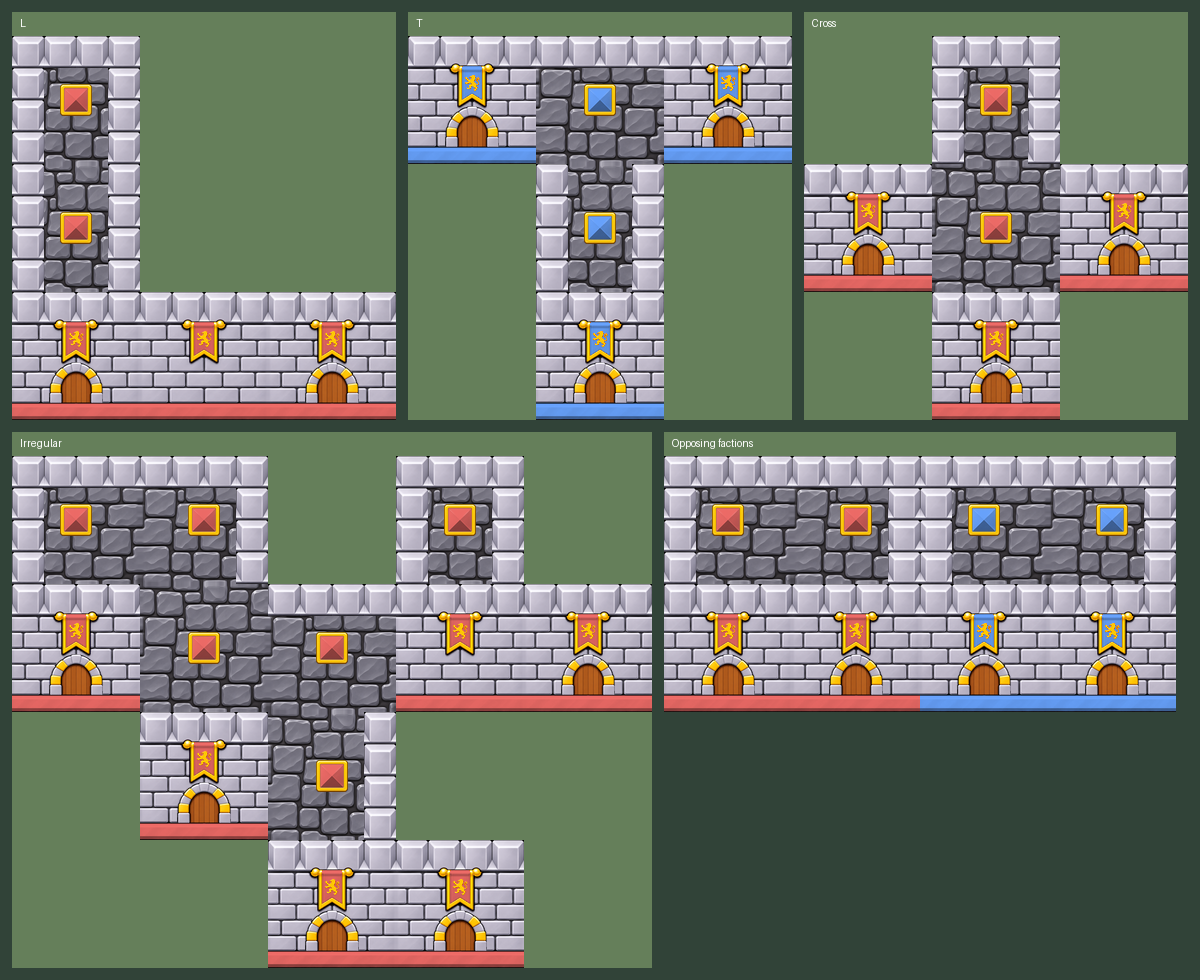
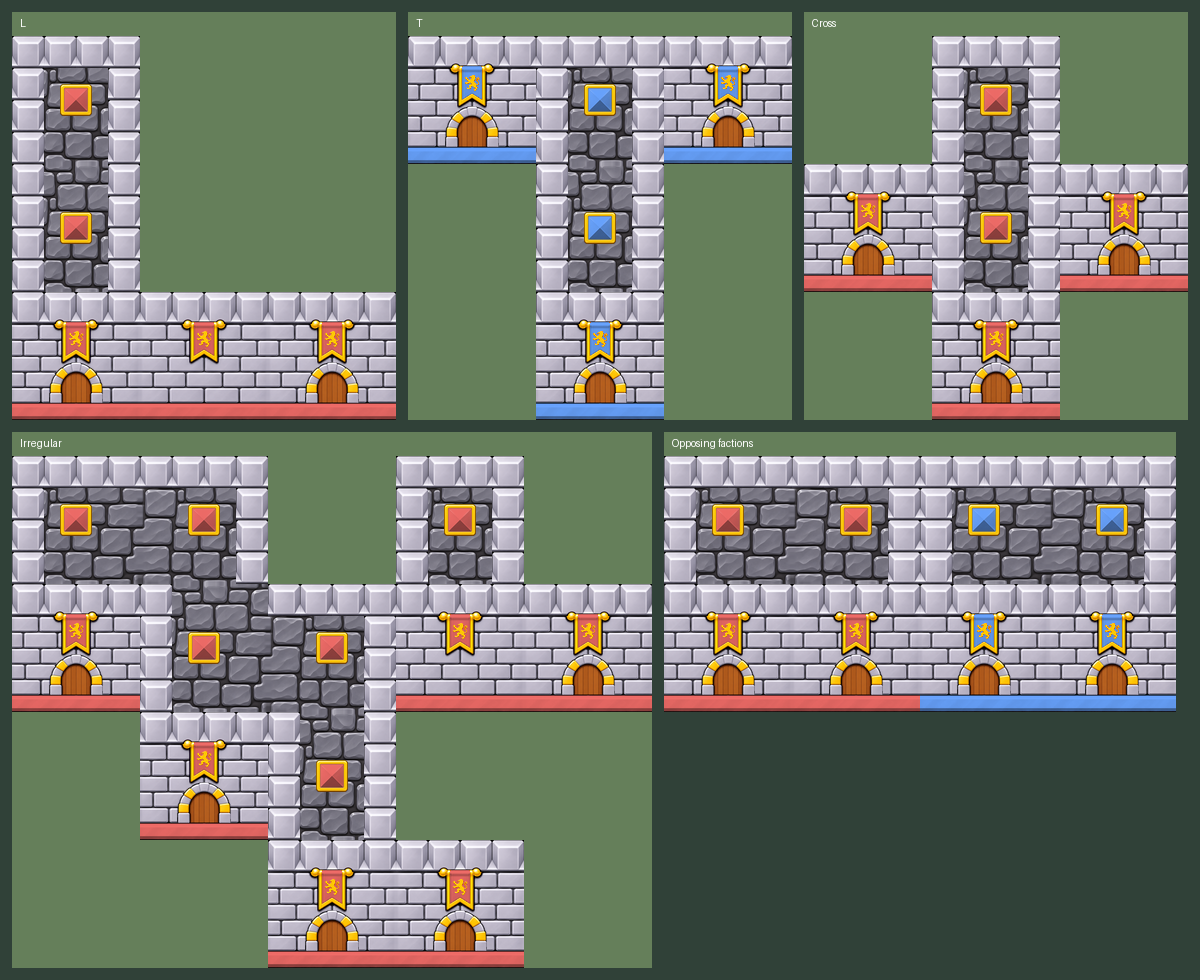
Add castle roof ramparts beside friendly facades

diff --git a/scripts/art/build-game-pieces.py b/scripts/art/build-game-pieces.py
@@ -236,6 +236,26 @@ def preview_tint(layers, color):
     return Image.fromarray(np.rint(base).astype(np.uint8))
 
 
+def preview_assembly(pairs, label, layout):
+    cells = {(x, y): owner for y, row in enumerate(layout) for x, owner in enumerate(row) if owner != "."}
+    topologies = {
+        (x, y): sum(bit for bit, dx, dy in DIRECTIONS if cells.get((x + dx, y + dy)) == owner)
+        for (x, y), owner in cells.items()
+    }
+    sheet = Image.new("RGBA", (len(layout[0]) * TILE, len(layout) * TILE + 24), "#657f5a")
+    ImageDraw.Draw(sheet).text((8, 5), label, fill="white")
+    for (x, y), owner in cells.items():
+        artwork = topologies[x, y]
+        if artwork & SOUTH:
+            # Remove only the roof-to-façade side joins from the artwork lookup.
+            for side, dx in ((EAST, 1), (WEST, -1)):
+                if artwork & side and not topologies[x + dx, y] & SOUTH:
+                    artwork &= ~side
+        pair = pairs[wall_key(artwork)]
+        sheet.alpha_composite(preview_tint(pair, COLORS[owner == "B"]), (x * TILE, y * TILE + 24))
+    return sheet, set(topologies.values())
+
+
 def review_sheets(pairs, directory):
     directory.mkdir(parents=True, exist_ok=True)
     sheet = Image.new("RGBA", (6 * 142, 3 * 160), "#657f5a")
@@ -272,18 +292,35 @@ def review_sheets(pairs, directory):
         ("Opposing factions", ("RRBB", "RRBB")),
     )
     seen = set()
+    assemblies = {}
     for number, (label, layout) in enumerate(layouts, 1):
-        cells = {(x, y): owner for y, row in enumerate(layout) for x, owner in enumerate(row) if owner != "."}
-        sheet = Image.new("RGBA", (len(layout[0]) * TILE, len(layout) * TILE + 24), "#657f5a")
-        ImageDraw.Draw(sheet).text((8, 5), label, fill="white")
-        for (x, y), owner in cells.items():
-            topology = sum(bit for bit, dx, dy in DIRECTIONS if cells.get((x + dx, y + dy)) == owner)
-            seen.add(topology)
-            pair = pairs[wall_key(topology)]
-            sheet.alpha_composite(preview_tint(pair, COLORS[owner == "B"]), (x * TILE, y * TILE + 24))
+        sheet, topologies = preview_assembly(pairs, label, layout)
+        assemblies[label] = sheet
+        seen.update(topologies)
         sheet.convert("RGB").save(directory / f"assembly-{number:02}.png")
     if seen != set(range(1, 16)):
         raise ValueError(f"Assembly fixtures missed {set(range(1, 16)) - seen}")
+
+    margin = 12
+    width = 9 * TILE + 4 * margin
+    top_height = 3 * TILE + 24
+    irregular = Image.new("RGB", (width, top_height + 4 * TILE + 24 + 3 * margin), "#304138")
+    for column, label in enumerate(("L", "T", "Cross")):
+        irregular.paste(assemblies[label], (margin + column * (3 * TILE + margin), margin))
+    irregular.paste(assemblies["Irregular"], (margin, top_height + 2 * margin))
+    irregular.paste(assemblies["Opposing factions"], (5 * TILE + 2 * margin, top_height + 2 * margin))
+    irregular.save(directory / "assemblies-irregular.png")
+
+    row_height = 2 * TILE + 24
+    transitions = Image.new("RGB", (width, 2 * row_height + 3 * margin), "#304138")
+    for row, (faction, owner) in enumerate((("Red", "R"), ("Blue", "B"))):
+        for column, (label, lower_row) in enumerate((
+            ("Left facade", ".RR"), ("Right facade", "RR."), ("Both facades", ".R."),
+        )):
+            layout = (owner * 3, lower_row.replace("R", owner))
+            sheet, _ = preview_assembly(pairs, f"{faction}: {label}", layout)
+            transitions.paste(sheet, (margin + column * (3 * TILE + margin), margin + row * (row_height + margin)))
+    transitions.save(directory / "assemblies-facade-transitions.png")
 
 
 def main():

diff --git a/Tests/Presentation/CastleTopologyTests.cs b/Tests/Presentation/CastleTopologyTests.cs
@@ -20,6 +20,56 @@ public sealed class CastleTopologyTests
         }
     }
 
+    [Theory]
+    [InlineData(PlayerId.PlayerOne)]
+    [InlineData(PlayerId.PlayerTwo)]
+    public void RoofArtworkUpdatesIndependentlyAtEachFacadeTransition(PlayerId owner)
+    {
+        var center = new BoardPosition(1, 1);
+        var southWest = new BoardPosition(0, 2);
+        var southEast = new BoardPosition(2, 2);
+        var opponent = owner == PlayerId.PlayerOne ? PlayerId.PlayerTwo : PlayerId.PlayerOne;
+        var castle = new CellState(TerrainType.Playable, PieceType.Castle, owner, 3);
+        var cells = new Dictionary<BoardPosition, CellState>
+        {
+            [center] = castle,
+            [new(1, 0)] = castle,
+            [new(1, 2)] = castle,
+            [new(0, 1)] = castle,
+            [new(2, 1)] = castle,
+            [southWest] = new(TerrainType.Playable, PieceType.Castle, opponent, 3),
+            [southEast] = new(TerrainType.Playable, PieceType.Knight, owner, 3),
+        };
+
+        AssertArtwork(5); // Both façades: west and east ramparts.
+        cells[southEast] = castle;
+        AssertArtwork(7); // Left façade only.
+        cells[southWest] = castle;
+        AssertArtwork(15); // Both neighbors are roofs.
+        cells.Remove(southEast);
+        AssertArtwork(13); // Right façade only.
+
+        void AssertArtwork(int expectedBase)
+        {
+            Assert.Equal(15, CastleTopology.Mask(center, owner, 3, 3, At));
+            int artwork = CastleTopology.ArtworkMask(center, owner, 3, 3, At);
+            Assert.Equal((expectedBase, 15), BoardRenderer.GetWallArtworkMasks(artwork));
+        }
+
+        CellState At(BoardPosition position) => cells.GetValueOrDefault(position);
+    }
+
+    [Fact]
+    public void FacadeTransitionsLeaveTheNorthRampartIntact()
+    {
+        var castle = new CellState(TerrainType.Playable, PieceType.Castle, PlayerId.PlayerOne, 3);
+        CellState At(BoardPosition position) => position.Y == 0 || position.X == 1 ? castle : default;
+
+        Assert.Equal(14, CastleTopology.Mask(new(1, 0), PlayerId.PlayerOne, 3, 2, At));
+        Assert.Equal(4, CastleTopology.ArtworkMask(new(1, 0), PlayerId.PlayerOne, 3, 2, At));
+        Assert.Equal(2, CastleTopology.ArtworkMask(new(0, 0), PlayerId.PlayerOne, 3, 2, At));
+    }
+
     [Fact]
     public void AllMasksUseOnlyFriendlyCardinalCastles()
     {

diff --git a/Scenes/CastleTopology.cs b/Scenes/CastleTopology.cs
@@ -3,6 +3,9 @@ using CastrumTactics.Domain;
 
 internal static class CastleTopology
 {
+    private const int East = 2;
+    private const int South = 4;
+    private const int West = 8;
     private static readonly BoardPosition[] Directions = [new(0, -1), new(1, 0), new(0, 1), new(-1, 0)];
 
     // N/E/S/W are bits 0–3. The occupied cell stays independent of the artwork that crosses its edges.
@@ -13,12 +16,33 @@ internal static class CastleTopology
         {
             var offset = Directions[i];
             var side = new BoardPosition(position.X + offset.X, position.Y + offset.Y);
-            if ((uint)side.X < (uint)width && (uint)side.Y < (uint)height &&
-                cellAt(side) is { Piece: PieceType.Castle } cell && cell.Owner == owner)
+            if (HasFriendlyCastle(side, owner, width, height, cellAt))
             {
                 mask |= 1 << i;
             }
         }
         return mask;
     }
+
+    internal static int ArtworkMask(BoardPosition position, PlayerId owner, int width, int height,
+        Func<BoardPosition, CellState> cellAt)
+    {
+        int mask = Mask(position, owner, width, height, cellAt);
+        if ((mask & South) == 0) return mask;
+
+        // A neighboring façade has no friendly castle immediately south of it. Reuse the
+        // pre-composed rampart for that edge while keeping the actual castle connection intact.
+        int southRow = position.Y + 1;
+        if ((mask & East) != 0 && !HasFriendlyCastle(new(position.X + 1, southRow), owner, width, height, cellAt))
+            mask &= ~East;
+        if ((mask & West) != 0 && !HasFriendlyCastle(new(position.X - 1, southRow), owner, width, height, cellAt))
+            mask &= ~West;
+
+        return mask;
+    }
+
+    private static bool HasFriendlyCastle(BoardPosition position, PlayerId owner, int width, int height,
+        Func<BoardPosition, CellState> cellAt) =>
+        (uint)position.X < (uint)width && (uint)position.Y < (uint)height &&
+        cellAt(position) is { Piece: PieceType.Castle } cell && cell.Owner == owner;
 }

diff --git a/Scenes/BoardRenderer.cs b/Scenes/BoardRenderer.cs
@@ -405,9 +405,9 @@ public partial class BoardRenderer : Control
             {
                 var position = new BoardPosition(x, y);
                 CellState cell = cellAt(position);
-                int mask = cell is { Piece: PieceType.Castle, Owner: { } owner }
-                    ? CastleTopology.Mask(position, owner, board.Width, board.Height, cellAt) : 0;
-                if (CreatePieceSprite(cell, mask) is { } piece)
+                int artworkMask = cell is { Piece: PieceType.Castle, Owner: { } owner }
+                    ? CastleTopology.ArtworkMask(position, owner, board.Width, board.Height, cellAt) : 0;
+                if (CreatePieceSprite(cell, artworkMask) is { } piece)
                 {
                     piece.Sprite.ZIndex = PieceLayer;
                     AddChild(piece.Sprite);

diff --git a/Documentation/BoardArtVerification.md b/Documentation/BoardArtVerification.md
@@ -27,7 +27,7 @@ Isolation clears alpha below 8 and crops to the surviving silhouette before sizi
 
 `CastleTopology` uses north, east, south and west bits 1, 2, 4 and 8. The output names use the mask of a representative base, with separate shared tint IDs. The following entries resolve to `wall-<base>_base.png` and `wall-<tint>_mask.png` under `Assets/Sprites/Board`. Mask zero uses the 104 × 104 `castle_base.png` and `castle_mask.png` pair.
 
-| Connectivity (mask) | Base | Tint | Exposed ramparts |
+| Artwork mask | Base | Tint | Ramparts |
 | --- | --- | --- | --- |
 | N (1), E (2), NE (3), W (8), NW (9) | 1, gate | 10 | Façade row |
 | EW (10), NEW (11) | 10, uninterrupted | 10 | Façade row |
@@ -39,6 +39,8 @@ Isolation clears alpha below 8 and crops to the surviving silhouette before sizi
 | NSW (13) | 13 | 15 | E · 4 blocks |
 | ESW (14) | 14 | 15 | N · 4 blocks |
 | NESW (15) | 15 | 15 | Open interior · 0 blocks |
+
+Roofs evaluate their east and west edges independently. A side gets a rampart if there is no friendly castle on that side or the friendly neighbor has no southward castle connection and therefore displays a façade. For artwork lookup, clear that side bit on the roof. The north edge still uses the roof’s northward connection. The existing pre-composed bases already cover every resulting combination, including two side ramparts. They reuse the same crystal mask, so the cache needs no extra textures, layers or draw calls. The renderer re-evaluates the layout on each new board snapshot, including when a diagonal castle changes a neighboring façade into a roof.
 
 Both façades use the uninterrupted source for all four upper blocks, masonry, banner and foundation. Processing narrows the lower façade crop to columns `[3, 125)` at 128 px, refits it to the full width, and feathers the horizontal edges over three texels. A traced arch from the gate source at `(142, 266, 356, 435)` in the script’s 500 × 500 working image is resampled to 54 × 41 and overlaid at `(37, 70)`. The common ramparts, edges, banner and foundation align across both variants.
 
@@ -64,7 +66,7 @@ The check validates source checksums, output dimensions and alpha, mask coverage
 | [Faction colors](assets/10c1/faction-colors.png) and [connectivity](assets/10c1/connectivity.png) | Base and mask alignment, four color samples, all 15 connected configurations and the singleton. |
 | [Horizontal façades](assets/10c1/assemblies-facades.png) | E–W, E–EW–W and E–EW–EW–EW–W at native texel size. |
 | [Vertical and rectangular fortresses](assets/10c1/assemblies-fortresses.png) | S–NS–N, 2 × 2, 3 × 3 and 5 × 4. The 3 × 3 upper, middle and lower rows are ES–ESW–SW, NES–NESW–NSW and NE–NEW–NW. |
-| [Irregular formations](assets/10c1/assemblies-irregular.png) | L, T, cross, irregular cluster and adjacent opposing factions, at native texel size. |
+| [Irregular formations](assets/10c1/assemblies-irregular.png) and [façade transitions](assets/10c1/assemblies-facade-transitions.png) | L, T, cross, irregular cluster and adjacent opposing factions. The focused sheet shows left, right and bilateral ramparts in red and blue at native texel size. |
 | [Godot fortifications](assets/10c1/fortifications.png) and [alternate shader colors](assets/10c1/fortifications-alternate.png) | A temporary review fixture applied all 16 castle masks through the production board renderer and checked the bound base and tint resources. Both default shader colors and `#59ca87` / `#b48af5` were rendered. |
 | [Landscape live castle join](assets/10c1/connected-castles.png) and [portrait mixed pieces](assets/10c1/knight-support-mixed-portrait.png) | Real Knight Support submissions on Open Meadow. Includes both factions, a connected façade, singleton castles, knights, graves, territory and legal frames. |
 | [Classic shared targets](assets/10c1/10c-red-shared.png) and [collision and damage](assets/10c1/10c-after-grave.png) | Landscape Demonstration during Main. |

diff --git a/Documentation/DecisionLog.md b/Documentation/DecisionLog.md
@@ -22,7 +22,7 @@ The linked records carry the original rationale and evidence. Add durable decisi
 | Accepted in the 10C.0 closure | Proceed with artwork refinement. Investigate incremental sprite synchronization first in 10C.2. | The native baseline is satisfactory at approximately 60 Hz. Android slow frames cluster around turn resolution. Measure the specific costs in isolation before selecting an optimization. [Native results](NativeRenderingBaseline.md) · [10C.2 priorities](VisualDevelopmentRoadmap.md#10c2--evidence-driven-rendering-optimization) |
 | Planned for 10C.1 | Review owner-approved source assets by family and build cardinal terrain connections where required. | Keep the accepted 10B architecture and review integrated art before proceeding to the next family. [Visual roadmap](VisualDevelopmentRoadmap.md#10c1--artwork-refinement-and-terrain-autotiling) |
 | Approved for 10C.1a–10C.1d | Use the supplied game piece art with gold lion heraldry, source-derived masks and a neutral grave with dirt and no vegetation. | Retain the approved originals as ten flat PNGs in the external asset directory. Integrated art awaits owner in-game acceptance. [Source and verification](BoardArtVerification.md#10c1a10c1d--approved-game-piece-artwork) |
-| Approved for 10C.1c | Fill connected castle tiles from five approved source graphics. Seven configurations share two south-facing façades and eight use pavement, a crystal and upright rampart blocks on a 4 × 4 grid. | Gate presence distinguishes terminal façades. Offline composition preserves one sprite per castle, with shared masks and materials for equivalent artwork. [Assembly mapping](BoardArtVerification.md#connected-castle-assembly) |
+| Approved for 10C.1c | Fill connected castle tiles from five approved source graphics. Seven cardinal configurations share two south-facing façades. Roofs use pavement, a crystal and upright rampart blocks on a 4 × 4 grid, with side ramparts where roofs meet façades. | Gate presence distinguishes terminal façades. Offline composition preserves one sprite per castle, with shared masks and materials for equivalent artwork. [Assembly mapping](BoardArtVerification.md#connected-castle-assembly) |
 | Approved for deferred exploration | Explore optional starting damage on playable terrain in a future map format and editor. | Preserve existing maps and the renderer’s empty-square damage cues. Review competitive fairness and CPU behavior before adoption. Milestone 10 has no implementation requirement for this idea. [Deferred map idea](MapFormat.md#deferred-initial-ground-health) |
 | Owner proposals for deferred exploration | Explore Swamp, Magma Field and Poison Swamp with a composable terrain property model that separates artwork from mechanics. | Preserve existing maps and rulesets. Evaluate special terrain in experimental and casual maps before considering competitive eligibility. Resolution timing, draft interactions, player cues and CPU evaluation remain open. [Deferred special terrain mechanics](GameDesign.md#deferred-special-terrain-mechanics) |
 | Proposed | Explore explicit multi-front planning and alternative large-board coverage. | The size study cannot attribute its mixed large-board results to multi-front weakness. [Battlefield size study](BattlefieldBalance.md#battlefield-size-and-stronger-policy-consistency) |

diff --git a/Documentation/VisualArchitecture.md b/Documentation/VisualArchitecture.md
@@ -45,7 +45,7 @@ Unknown fields, duplicate entries, invalid dimensions, out-of-range cells, and i
 
 BoardGeometry defines shared square cells, bounds, margins, sprite fitting and the right/bottom shared-edge convention. Input converts a viewport point through Godot's inverse canvas transform before testing these cells. The preview uses its own fit rectangle with the same geometry. It displays intact terrain, accents and starts using the selected map’s visual descriptors.
 
-10D can apply one board-content transform and its inverse to both drawing and input. Keep the score and controls in fit space, and suppress taps from recognized gestures. The current board uses fit geometry. Tall props will need tile footprints and an explicit occlusion policy before adoption. CastleTopology derives N/E/S/W bits 0–3 from orthogonally adjacent same-owner castles on the final board. Mask zero uses the padded singleton. Nonzero masks occupy the full square, with the two façade bases or one of eight pavement bases selected by the presentation lookup. The two façades share one tint texture and all pavement bases share the centered crystal tint. Offline composition keeps each occupied cell at one sprite using the existing faction shader. [Assembly mapping](BoardArtVerification.md#connected-castle-assembly)
+10D can apply one board-content transform and its inverse to both drawing and input. Keep the score and controls in fit space, and suppress taps from recognized gestures. The current board uses fit geometry. Tall props will need tile footprints and an explicit occlusion policy before adoption. CastleTopology derives N/E/S/W bits 0–3 from orthogonally adjacent same-owner castles on the final board. Mask zero uses the padded singleton. Nonzero masks occupy the full square, with the two façade bases or one of eight pavement bases selected by the presentation lookup. A pavement tile also selects a side rampart where it meets a friendly façade. The two façades share one tint texture and all pavement bases share the centered crystal tint. Offline composition keeps each occupied cell at one sprite using the existing faction shader. [Assembly mapping](BoardArtVerification.md#connected-castle-assembly)
 
 Assets stay in their existing `Assets/Sprites` and `Shaders` paths. Keep sidecar IDs independent of filenames. Introduce cached resources for new art by role (terrain, edges, props, pieces, chrome, effects) and preserve their Godot UIDs. Faction textures and alpha masks remain paired. The terrain cache loads on demand, with shared linear sampling for the new terrain and aligned base/mask pairs. [Art direction and provenance](ArtDirection.md)
 

diff --git a/Documentation/VisualDevelopmentRoadmap.md b/Documentation/VisualDevelopmentRoadmap.md
@@ -28,7 +28,7 @@ The owner tested 10B on Windows and accepted its rendering and asset architectur
 
 1. 10C.1a implements the knight with tintable red livery and gold lion heraldry.
 2. 10C.1b implements the singleton castle with a source-derived mask for the banner and foundation.
-3. 10C.1c implements full-tile connected castles assembled offline from two façades, a rampart block, pavement and a faction crystal.
+3. 10C.1c implements full-tile connected castles assembled offline from two façades, a rampart block, pavement and a faction crystal. Roof tiles add a side rampart at each adjoining friendly façade.
 4. 10C.1d implements the neutral grave with surrounding dirt and no vegetation.
 5. 10C.1e covers playable ground and damage.
 6. 10C.1f covers forest and mountain autotiles.
